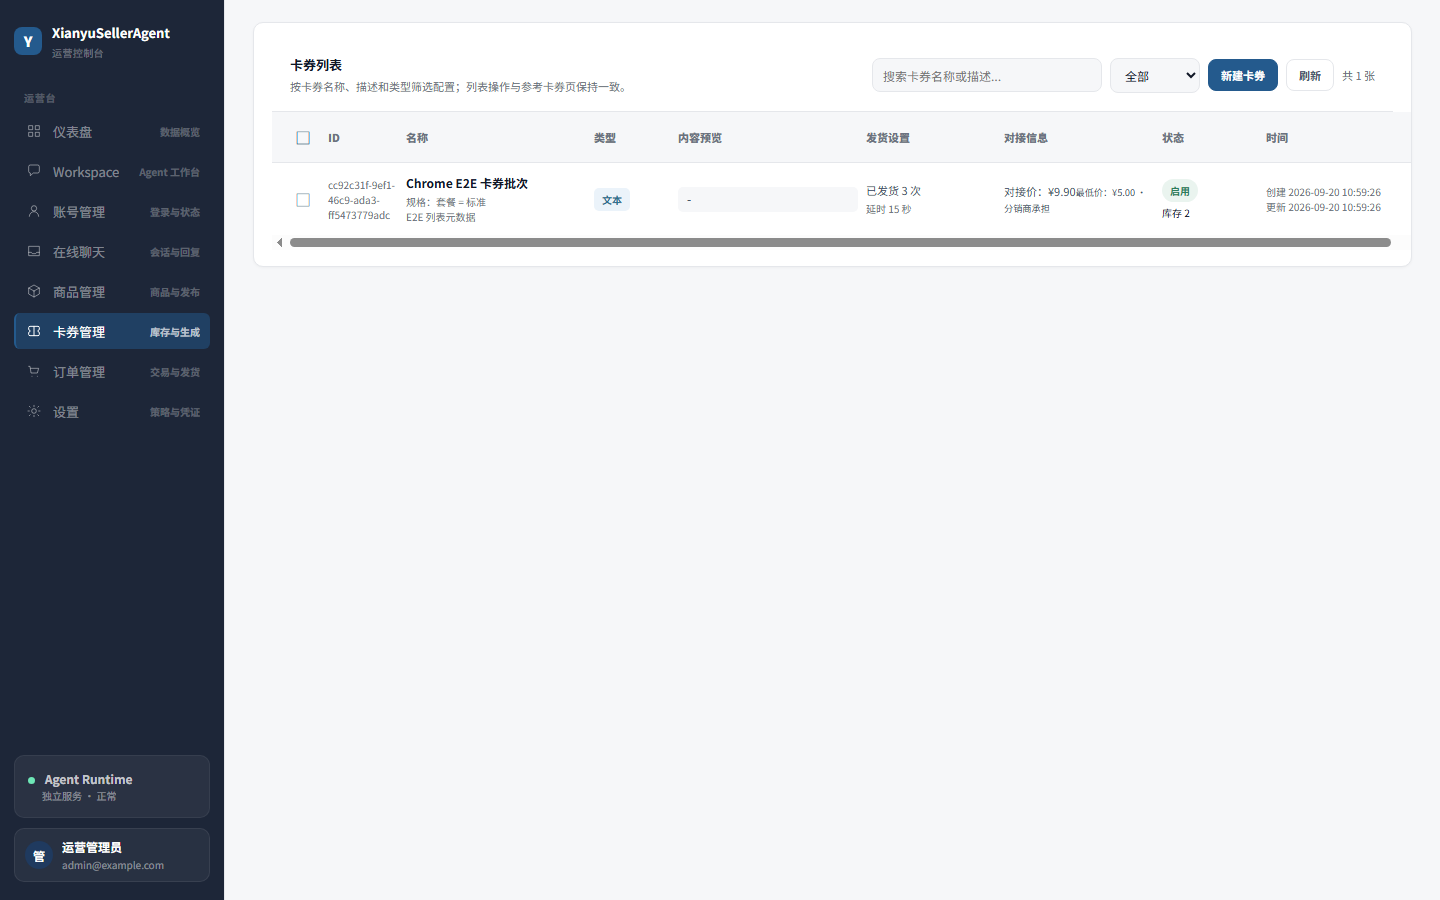
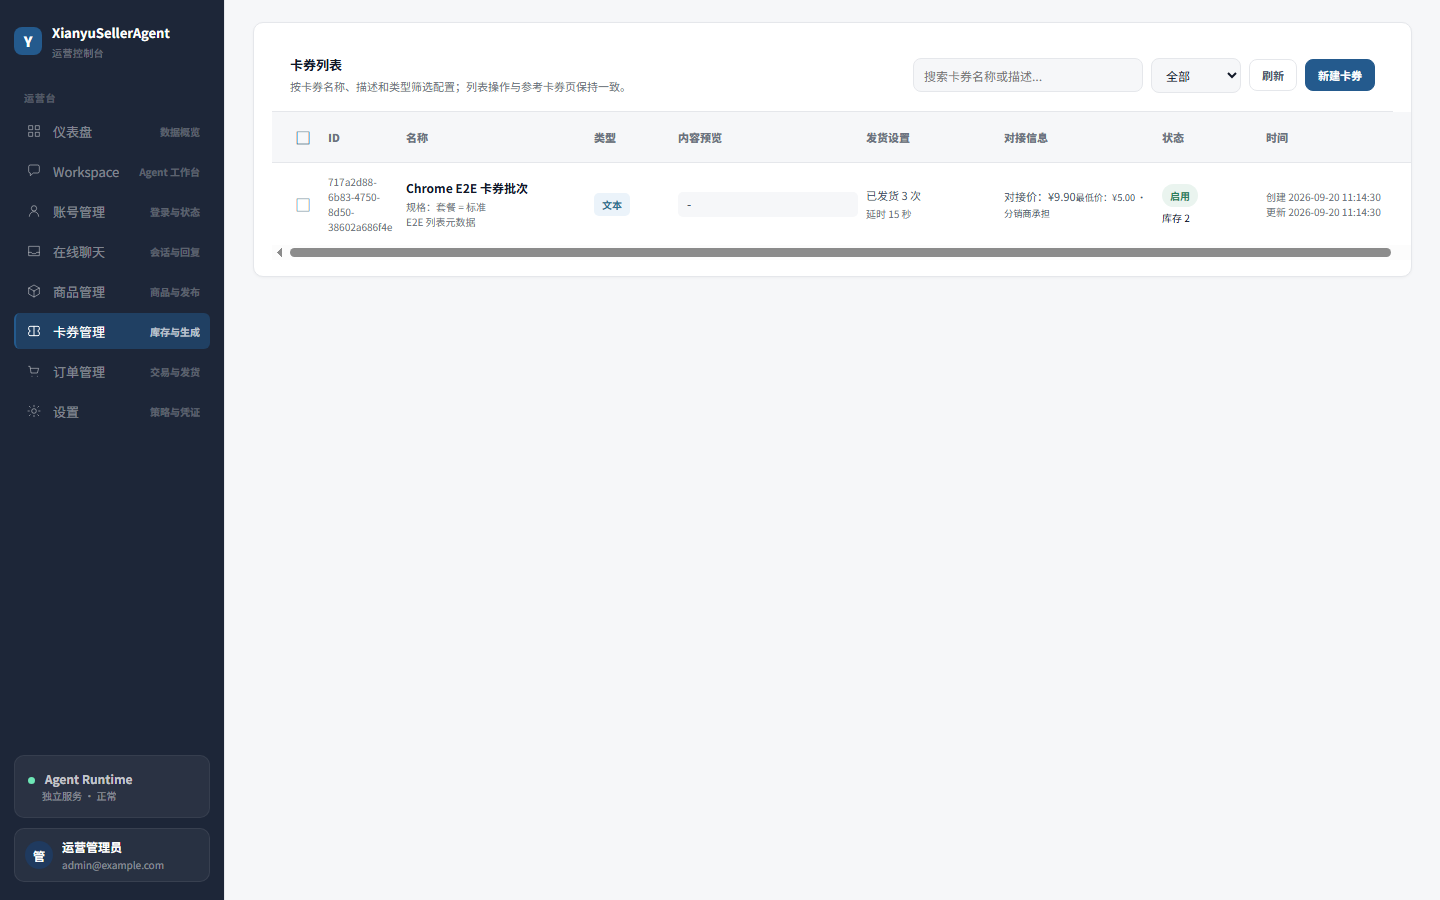
fix(卡券): 优化工具栏顺序与空态展示

Changed region(s): [[0.1875, 0.1867, 0.9688, 0.3111], [0.7812, 0.0622, 0.9688, 0.1244], [0.5938, 0.0622, 0.7188, 0.0933]]

diff --git a/apps/web/src/features/coupons/components/CouponsPage.tsx b/apps/web/src/features/coupons/components/CouponsPage.tsx
@@ -23,14 +23,13 @@ export function CouponsPage({ api: providedApi, productsApi: providedProductsApi
   const [relationReadonly, setRelationReadonly] = useState(false);
   const [imagePreview, setImagePreview] = useState<string | null>(null);
   const batches = controller.state.data?.items ?? [];
-  const total = controller.state.data?.total ?? 0;
   const openEdit = async (batch: CouponBatchVM) => { const detail = await api.getDetail(batch.batchId); setEditor({ mode: 'edit', batch: detail }); };
   const openCopy = async (batch: CouponBatchVM) => { const detail = await api.getDetail(batch.batchId); setEditor({ mode: 'copy', batch: detail }); };
   const openRelation = async (batchId: string, readonly = false) => { const detail = await api.getDetail(batchId); setRelationReadonly(readonly); setRelationBatch(detail); };
   const saveRelation = async (productIds: string[], initialIds: string[]) => { if (!relationBatch) return; const next = new Set(productIds); for (const productId of initialIds) if (!next.has(productId)) await controller.unbindBatch(relationBatch.batchId, productId); for (const productId of productIds) if (!initialIds.includes(productId)) await controller.bindBatch(relationBatch.batchId, productId); const detail = await api.getDetail(relationBatch.batchId); setRelationBatch(detail); setRelationReadonly(false); };
   const bulkActions = selectedIds.size > 0 && <div className="coupons-bulk-actions">{<button className="btn danger" type="button" onClick={() => { if (window.confirm(`确认删除选中的 ${selectedIds.size} 张卡券？`)) void controller.batchDelete(Array.from(selectedIds)).then(() => setSelectedIds(new Set())); }}>删除选中 ({selectedIds.size})</button>}{selectedIds.size === 1 && <button className="btn ghost" type="button" onClick={() => { const batchId = Array.from(selectedIds)[0]; if (batchId) void openRelation(batchId); }}>关联商品</button>}</div>;
   return <section className="page-stack coupons-domain" data-coupons-domain>
-    <article className="card panel coupons-panel"><CouponToolbar filters={controller.filters} phase={controller.state.phase} total={total} onKeywordChange={(keyword) => { controller.setKeyword(keyword); setSelectedIds(new Set()); }} onPurposeChange={(purpose) => { controller.setFilters((previous) => ({ ...previous, purpose, page: 1 })); setSelectedIds(new Set()); }} onCreate={() => setEditor({ mode: 'create' })} onRefresh={() => void controller.reload()} bulkActions={bulkActions} />{controller.state.phase === 'success' && <CouponBatchTable batches={batches} selectedIds={selectedIds} onSelect={(batchId) => setSelectedIds((previous) => { const next = new Set(previous); if (next.has(batchId)) next.delete(batchId); else next.add(batchId); return next; })} onSelectAll={() => setSelectedIds((previous) => batches.every((batch) => previous.has(batch.batchId)) ? new Set() : new Set(batches.map((batch) => batch.batchId)))} onOpen={controller.openBatch} onEdit={(batch) => void openEdit(batch)} onCopy={(batch) => void openCopy(batch)} onBind={(batchId) => void openRelation(batchId)} onToggle={(batch) => { if (batch.status === 'voided') return; void controller.updateBatch(batch.batchId, { status: batch.status === 'active' ? 'paused' : 'active' }); }} onDelete={(batchId) => { if (window.confirm('确认删除该卡券？删除后保留审计历史。')) void controller.deleteBatch(batchId); }} onImagePreview={setImagePreview} />}<CouponListStateView phase={controller.state.phase} error={controller.state.error} onRetry={controller.reload} /></article>
+    <article className="card panel coupons-panel"><CouponToolbar filters={controller.filters} phase={controller.state.phase} onKeywordChange={(keyword) => { controller.setKeyword(keyword); setSelectedIds(new Set()); }} onPurposeChange={(purpose) => { controller.setFilters((previous) => ({ ...previous, purpose, page: 1 })); setSelectedIds(new Set()); }} onCreate={() => setEditor({ mode: 'create' })} onRefresh={() => void controller.reload()} bulkActions={bulkActions} />{controller.state.phase === 'success' && <CouponBatchTable batches={batches} selectedIds={selectedIds} onSelect={(batchId) => setSelectedIds((previous) => { const next = new Set(previous); if (next.has(batchId)) next.delete(batchId); else next.add(batchId); return next; })} onSelectAll={() => setSelectedIds((previous) => batches.every((batch) => previous.has(batch.batchId)) ? new Set() : new Set(batches.map((batch) => batch.batchId)))} onOpen={controller.openBatch} onEdit={(batch) => void openEdit(batch)} onCopy={(batch) => void openCopy(batch)} onBind={(batchId) => void openRelation(batchId)} onToggle={(batch) => { if (batch.status === 'voided') return; void controller.updateBatch(batch.batchId, { status: batch.status === 'active' ? 'paused' : 'active' }); }} onDelete={(batchId) => { if (window.confirm('确认删除该卡券？删除后保留审计历史。')) void controller.deleteBatch(batchId); }} onImagePreview={setImagePreview} />}<CouponListStateView phase={controller.state.phase} error={controller.state.error} onRetry={controller.reload} /></article>
     <CouponDrawer state={controller.detail} content={controller.content} mutation={controller.mutation} onClose={controller.closeBatch} onRetry={() => controller.detail.batchId && controller.openBatch(controller.detail.batchId)} onImport={async (items) => { if (controller.detail.batchId) await controller.importItems(controller.detail.batchId, items); }} onBind={async (productId) => { if (controller.detail.batchId) await controller.bindBatch(controller.detail.batchId, productId); }} onVoid={async () => { if (controller.detail.batchId) await controller.voidBatch(controller.detail.batchId); }} onPreview={controller.previewContent} />
     {editor && <CouponCreateModal mode={editor.mode} batch={editor.batch} submitting={controller.mutation.phase === 'submitting'} onClose={() => setEditor(null)} onSubmit={async (input) => { if (editor.mode === 'edit' && editor.batch) await controller.updateBatch(editor.batch.batchId, input); else await controller.createBatch(input as Parameters<typeof controller.createBatch>[0]); }} />}
     {relationBatch && <CouponRelationModal batch={relationBatch} productsApi={productsApi} readonly={relationReadonly} submitting={controller.mutation.phase === 'submitting'} onClose={() => { setRelationBatch(null); setRelationReadonly(false); }} onSave={saveRelation} />}

diff --git a/apps/web/src/features/coupons/components/CouponToolbar.tsx b/apps/web/src/features/coupons/components/CouponToolbar.tsx
@@ -9,16 +9,15 @@ const types: Array<{ value: CouponBatchVM['purpose'] | 'all'; label: string }> =
   { value: 'image', label: '图片' },
 ];
 
-export function CouponToolbar({ filters, phase, total, onKeywordChange, onPurposeChange, onCreate, onRefresh, bulkActions }: { filters: CouponBatchFilters; phase: CouponsLoadPhase; total: number; onKeywordChange: (value: string) => void; onPurposeChange: (value: CouponBatchVM['purpose'] | 'all') => void; onCreate: () => void; onRefresh: () => void; bulkActions?: ReactNode }) {
+export function CouponToolbar({ filters, phase, onKeywordChange, onPurposeChange, onCreate, onRefresh, bulkActions }: { filters: CouponBatchFilters; phase: CouponsLoadPhase; onKeywordChange: (value: string) => void; onPurposeChange: (value: CouponBatchVM['purpose'] | 'all') => void; onCreate: () => void; onRefresh: () => void; bulkActions?: ReactNode }) {
   return <div className="coupons-toolbar">
     <div><h2>卡券列表</h2><p>按卡券名称、描述和类型筛选配置；列表操作与参考卡券页保持一致。</p></div>
     <div className="coupons-toolbar-actions">
       <label className="coupons-search"><span className="sr-only">搜索卡券</span><input aria-label="搜索卡券名称或描述" value={filters.keyword ?? ''} onChange={(event) => onKeywordChange(event.target.value)} placeholder="搜索卡券名称或描述..." /></label>
       <label><span className="sr-only">卡券类型</span><select aria-label="卡券类型" value={filters.purpose ?? 'all'} onChange={(event) => onPurposeChange(event.target.value as CouponBatchVM['purpose'] | 'all')}>{types.map((type) => <option key={type.value} value={type.value}>{type.label}</option>)}</select></label>
-      <button className="btn primary" type="button" onClick={onCreate}>新建卡券</button>
       <button className="btn ghost" type="button" onClick={onRefresh} disabled={phase === 'loading'}>刷新</button>
       {bulkActions}
-      <span className="coupons-total">共 {total} 张</span>
+      <button className="btn primary" type="button" onClick={onCreate}>新建卡券</button>
     </div>
   </div>;
 }

diff --git a/apps/web/src/features/coupons/components/CouponToolbar.test.ts b/apps/web/src/features/coupons/components/CouponToolbar.test.ts
@@ -1,0 +1,27 @@
+import { createElement } from 'react';
+import { renderToStaticMarkup } from 'react-dom/server';
+import { describe, expect, it, vi } from 'vitest';
+import { CouponToolbar } from './CouponToolbar';
+
+describe('CouponToolbar', () => {
+  it('renders the compact list actions without redundant search buttons', () => {
+    const html = renderToStaticMarkup(createElement(CouponToolbar, {
+      filters: { page: 1, pageSize: 20, keyword: '', purpose: 'all' },
+      phase: 'success',
+      onKeywordChange: vi.fn(),
+      onPurposeChange: vi.fn(),
+      onCreate: vi.fn(),
+      onRefresh: vi.fn(),
+    }));
+
+    expect(html).toContain('搜索卡券名称或描述');
+    expect(html).toContain('卡券类型');
+    expect(html).toContain('刷新');
+    expect(html).toContain('新建卡券');
+    expect(html.indexOf('刷新')).toBeLessThan(html.indexOf('新建卡券'));
+    expect(html).not.toContain('coupons-total');
+    expect(html).not.toContain('共 2 张');
+    expect(html).not.toContain('查询');
+    expect(html).not.toContain('重置筛选');
+  });
+});

diff --git a/apps/web/src/features/coupons/components/CouponStateView.test.ts b/apps/web/src/features/coupons/components/CouponStateView.test.ts
@@ -1,0 +1,14 @@
+import { createElement } from 'react';
+import { renderToStaticMarkup } from 'react-dom/server';
+import { describe, expect, it, vi } from 'vitest';
+import { CouponListStateView } from './CouponStateView';
+
+describe('CouponListStateView', () => {
+  it('keeps the empty-state guidance together and centered by the page state container', () => {
+    const html = renderToStaticMarkup(createElement(CouponListStateView, { phase: 'empty', error: null, onRetry: vi.fn() }));
+
+    expect(html).toContain('class="coupons-state"');
+    expect(html).toContain('<strong>暂无卡券批次</strong>');
+    expect(html).toContain('<span>当前账号范围内没有匹配的批次，可调整筛选或创建新批次。</span>');
+  });
+});

diff --git a/docs/agent-worktree-registry.md b/docs/agent-worktree-registry.md
@@ -35,6 +35,7 @@
 | `root` | `products-pagination` | `fix/products-pagination` | `F:\ChenHai\Project\XianYuAgent-products-pagination` | Codex `/root` | `2026-09-20 00:00:00 +08:00` | `CLEANED` | `3219f85f10cc151dd2761afa066a2ee60be8580f` | `2026-09-20 18:04:00 +08:00` | 已在 merge lock 内合入并完成主线 typecheck、Web 79 项测试、构建与商品 Chrome E2E；API smoke 仍受 127.0.0.1:18872 端口占用阻塞。Git worktree 元数据与分支已清理，目录因含非 Git 内容保留。 |
 | `root` | `products-columns` | `fix/products-columns` | `F:\ChenHai\Project\XianYuAgent-products-columns` | Codex `/root` | `2026-09-20 18:38:05 +08:00` | `CLEANED` | `19763b8e543e986d0d6b691f1a4d344a1f9f3eaf` | `2026-09-20 18:48:19 +08:00` | 六列表格、闲鱼创建/更新时间排序与关联卡券展示；双端类型检查、单测、构建与商品 Chrome E2E 已通过。Git worktree 元数据与分支已清理，目录因含非 Git 内容保留。 |
 | `root` | `coupons-toolbar` | `fix/coupons-toolbar` | `F:\ChenHai\Project\XianYuAgent-coupons-toolbar` | Codex `/root` | `2026-09-20 18:51:55 +08:00` | `CLEANED` | `19c6798` | `2026-09-20 19:00:37 +08:00` | 用户已明确授权直接合入 master；合并后 master typecheck、Vitest、前后端 build、Chrome/CDP E2E 与 diff 检查均通过；Git worktree 元数据与分支已清理，目录因保留非 Git 内容未删除。 |
+| `root` | `coupons-toolbar-empty-state` | `fix/coupons-toolbar-empty-state` | `F:\ChenHai\Project\XianYuAgent-coupons-toolbar-followup` | Codex `/root` | `2026-09-20 19:09:44 +08:00` | `READY_FOR_MERGE` | `-` | `-` | 用户已明确要求完成后合入 master；工具栏新建卡券按钮后置、移除共计统计，补充空态文案与居中回归；分支 typecheck、Vitest、前后端 build、Chrome/CDP E2E 已通过。 |
 
 ## 主工作区
 

diff --git a/docs/evidence/stage5/S4-VS3/test-baseline.md b/docs/evidence/stage5/S4-VS3/test-baseline.md
@@ -12,6 +12,12 @@
 - 搜索与类型筛选改为变更即生效，移除“查询”和“重置筛选”按钮。
 - 回归证据：`CouponToolbar.test.tsx`、Coupons Chrome/CDP E2E，以及 `1440×900` / `390×844` 截图。
 
+## 2026-09-20 空态与工具栏顺序修订
+
+- 本次修订 worktree：`F:\ChenHai\Project\XianYuAgent-coupons-toolbar-followup`；分支：`fix/coupons-toolbar-empty-state`。
+- 新建卡券按钮后置到工具栏最后，移除 `共 N 张` 统计；无匹配批次时保留居中的空态标题与引导文案。
+- 回归证据：`CouponToolbar.test.tsx`、`CouponStateView.test.tsx`、Coupons Chrome/CDP E2E。
+
 ## 用户路径
 
 真实浏览器从 `/coupons` 进入卡券首页，经 AuthGate 使用真实 Session Cookie 访问真实 API，完成：
